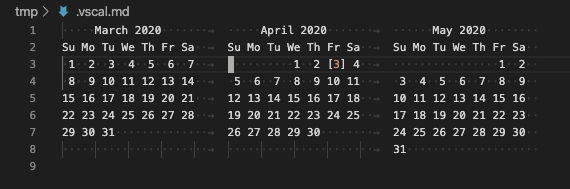
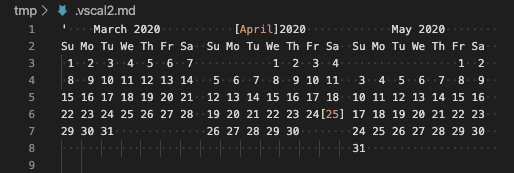
hiliting current month, aligning published version

diff --git a/src/extension.ts b/src/extension.ts
@@ -37,7 +37,7 @@ function removeDateTime() {
 function showMonthlyCalendar() {
     const cp = require('child_process');
     let cf = '.vscal.md';
-    cp.execSync('MON=$(date +%-m); DAY=$(date +%-d); cd /tmp; cal -h -m $(expr $MON - 1) > .vscal-1.txt; cal -h -m $(expr $MON + 1) > .vscal-3.txt; (cal -h -m $MON | sed "s/ $DAY /\[$DAY\]/") > .vscal-2.md; paste -d \\\\0 .vscal-1.txt .vscal-2.md .vscal-3.txt > '+cf+'; rm -f .vscal-*');
+    cp.execSync('MON=$(date +%-m); DAY=$(date +%-d); MONTH=$(date +%B); cd /tmp; (cal -h -m $(expr $MON - 1) | sed "1s/^ /\'/") > .vscal-1.txt; cal -h -m $(expr $MON + 1) > .vscal-3.txt; (cal -h -m $MON | sed -e "1s/ $MONTH /\[$MONTH\]/" -e "s/ $DAY /\[$DAY\]/") > .vscal-2.md; paste -d \\\\0 .vscal-1.txt .vscal-2.md .vscal-3.txt > '+cf+'; rm -f .vscal-*');
     let months = configuration.howManyMonthsCalendar();
     if (3 < months) {
         cp.execSync('MON=$(date +%-m); cd /tmp; echo "" > .vscal-n.txt; cal -m $(expr $MON + 2) -A '+String(months-4)+' > .vscal-2.txt; cat '+cf+' .vscal-n.txt .vscal-2.txt > .vscal2.md; rm -f .vscal-*');
@@ -64,7 +64,7 @@ function updateDateTime() {
             flashState = FlashState.On;
         }
 
-        let shouldShow = false;        
+        let shouldShow = false;
         if (!isStatusBarVisible) {
             createStatusBarItem();
             shouldShow = true;

diff --git a/README.md b/README.md
@@ -108,6 +108,9 @@ Custom date & time formats can be specified using the [Moment.js syntax](http://
 
 ## Release Notes
 
+### v0.5.0
+Still Mac/Linux only, but now installable (by following [this page](https://code.visualstudio.com/api/working-with-extensions/publishing-extension)), along with highlighting the current month in calendar view.
+
 ### v0.2.0
 Still Mac/Linux only, and still not installable, but added `dateTime.calendarMonths` config param for customizing how many months to show in calendar view.
 
